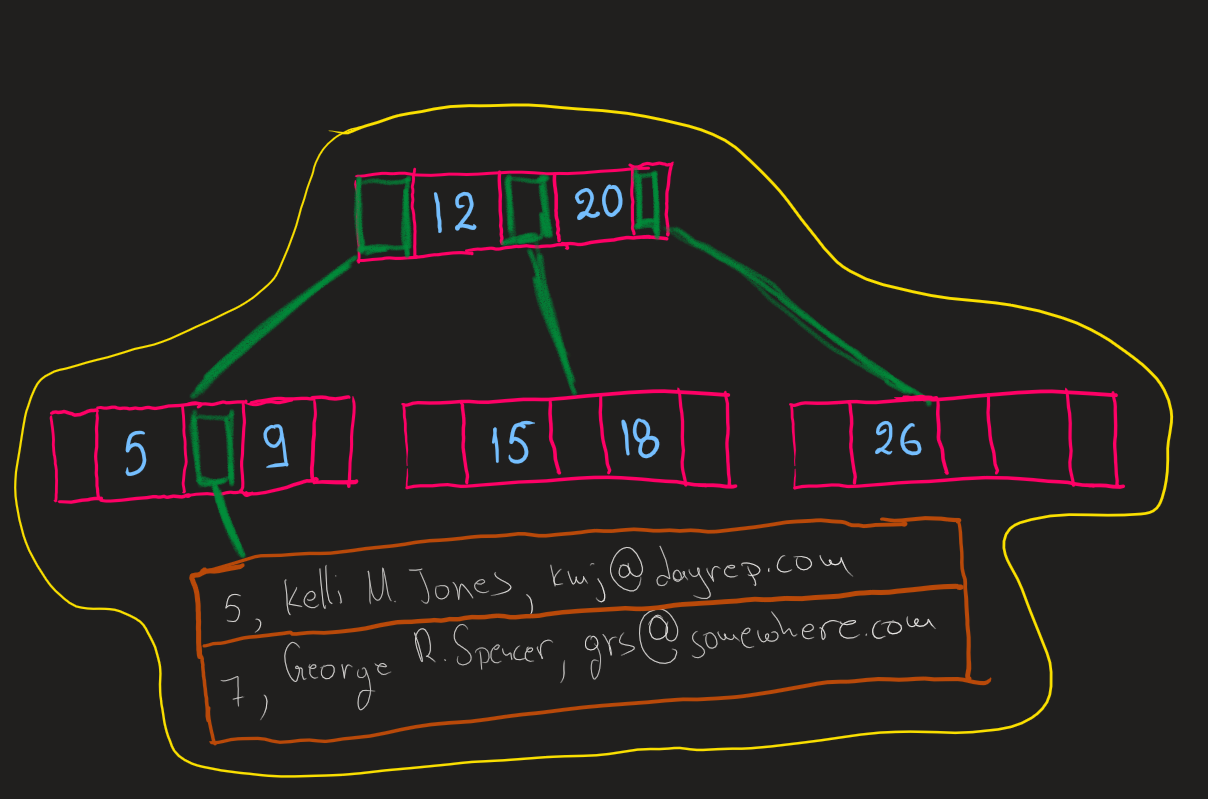
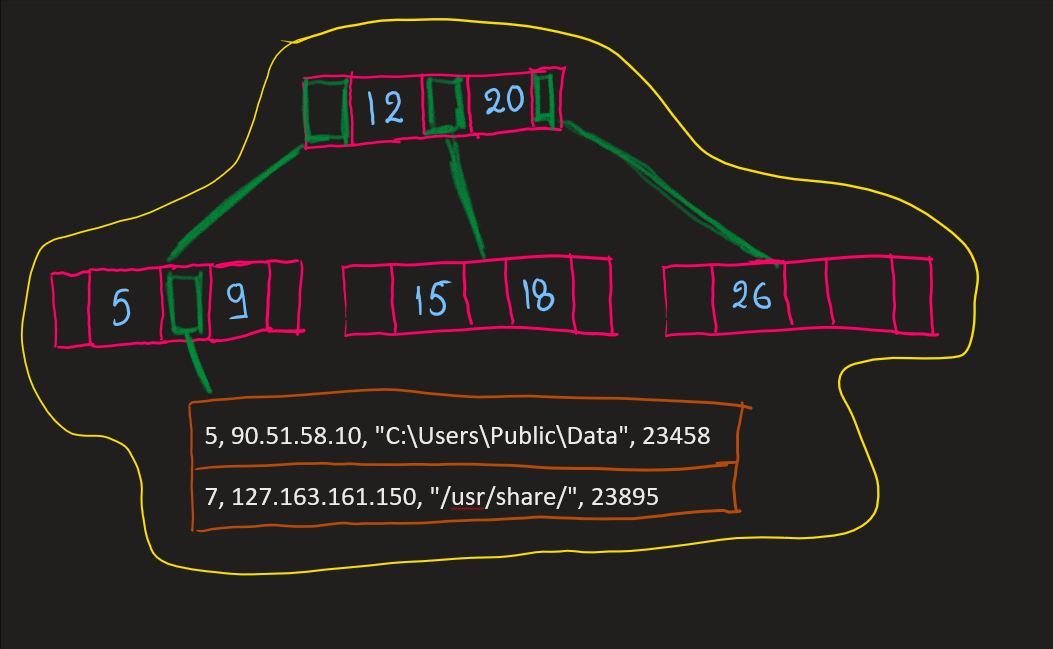
Content update

diff --git a/projects/project3/designing_nodes.md b/projects/project3/designing_nodes.md
@@ -38,7 +38,8 @@ outIndex = findElement(key);
 
 Ok with that out of the way, this project is probably a **good** use-case of
 making the tree a friend of the node, so it can access private members. Yes, you
-can do everything in the OOP way if you want. You won't be penalized either way.
+can do everything in the OOP way if you want. In fact, if you are familiar with
+that mental model, it might help you abstract and delegate your code to make it easier. You won't be penalized either way.
 
 <div class="alert alert-warning">
     Your nodes <b>WILL</b> have to be templated on the key and index as well!
@@ -46,10 +47,17 @@ can do everything in the OOP way if you want. You won't be penalized either way.
 
 ## General Ideas
 B-Trees grow from the bottom up. That means you probably want to keep track of
-each node's parent on top of each node's children. Another property that might
-come up a lot is the height. Recall that a leaf has a height of 0. Maybe you
-want to keep track of it. Maybe you want to use it as a decreasing value in
-recursion, to detect a leaf.
+each node's parent on top of each node's children. The project is also very
+doable without doing that, but instead setting up your recursion / functions a
+bit different. You could for example, return a value that lets the parent know
+that the child needs to be split and a promotion needs to happen. Or you could
+detect that in the child, do the split, then let the parent know that "hey,
+there is a promotion, deal with it". Go with the approach you better understand,
+or combine them!
+
+Another property that might come up a lot is the height. Recall that a leaf has
+a height of 0. Maybe you want to keep track of it, for every node. Maybe you
+want to use it as a decreasing value in recursion, to detect a leaf.
 
 
 ## Design Ideas
@@ -72,8 +80,8 @@ class Node {
 private:
     bool m_IsLeaf;
     std::vector<TKey> m_Keys;
-    std::vector<Node<TKey, TIndex>*> m_Children;
-    std::vector<TIndex> m_Data;
+    std::vector<Node<TKey, TIndex>*> m_Children; // This is populated for internal nodes ONLY
+    std::vector<TIndex> m_Data; // This is populated for leaf nodes ONLY
 };
 ```
 
@@ -81,7 +89,9 @@ private:
 This is a simple extension to the above. In _my_ opinion this only introduces
 more pain, over the previous idea. But remember, it is all about what makes 
 sense to you, so you can implement it! You either have your m_Children vector 
-populated and m_Leaves is empty, or the other way around.
+populated and m_Leaves is empty, or the other way around. You could say that if
+height is 1 it means I am going to the leaves next. Otherwise I am going to the
+next node.
 
 ```c++
 template<typename TKey, typename TIndex>
@@ -102,11 +112,19 @@ private:
 ### Idea 3: Inheritance!
 This is the most "elegant" solution, but you might not feel comfortable with it.
 It is definitely the most OOP solution. LeafNode is a Node, so it gets access to
-all of its protected and public members and that adds Data on top. Furthermore
-we will override the behavior of `IsLeaf` so `m_Children[i]->IsLeaf()` will
-return true or false as expected. This is called polymorphism from your 202
-class. Please note the constructors and destructors. They **MUST** be like that.
-Furthermore, `arguments for LeafNode` can include `arguments for Node`.
+all of its protected and public members and that adds `m_Data` on top.
+
+Next, we will override the behavior of `IsLeaf` so
+`m_Children[i]->IsLeaf()` will return true or false as expected. This is called
+polymorphism from your 202 class. Please note the constructors and destructors.
+Their declarations **MUST** be like that. You can implement them however you
+want though. 
+
+Furthermore, `arguments for LeafNode` can include all or some of
+`arguments for Node`. Meaning that LeafNode can accept some arguments to pass
+onto Node, and also select to hardcode some of the arguments. For example, if
+your Node accepts a height parameter, a LeafNode might want to hardcode that to
+0, instead of accepting it as a parameter.
 
 
 ```c++
@@ -155,7 +173,9 @@ picture.
 Let's say that we have the first node there at the top. An entry would have a
 key of 12, previousBranch would be a pointer to the bottom left node, and next
 branch would be a pointer to the bottom middle node. The next entry would have a
-key of 20 and so on and so forth.
+key of 20 and so on and so forth. There is some duplication there as 12's next
+is 20's previous. So you might be able to get away with having only one of them
+if you do it right.
 
 Again this is just an idea, and might warrant a lot of refinement. For instance
 think of the entry when you do not have a previous or next branch.

diff --git a/projects/project3/b-trees.md b/projects/project3/b-trees.md
@@ -40,7 +40,7 @@ nav_order: 2
 <p>
     In this assignment you will <b>NOT</b> have to worry about the calculation
     of optimal M and L. You will be accepting those parameters as arguments in
-    your tree's constructor and using them.
+    your tree's constructor and using them. <b>You still have to promote and split based on those values</b>.
 </p>
 
 ## The power of a name
@@ -50,12 +50,12 @@ nav_order: 2
 </p>
 <ul>
     <li>Everything red is a node, and specifically an "internal node". In the
-    picture below you have 3 internal nodes.</li>
+    picture below you have 3 internal nodes. 12 is not a node. 12 and 20 together are also not a node.</li>
     <li>Everything
         colored light blue is a key. Notice how a node is <b>NOT</b> a key. A node does
         contain some keys though!</li>
     <li>Everything colored green is a branch. Notice how a node might have some
-    branches, but they are also "outside" the node. That's because they symbolize
+    branches, but notice how branches extend "outside" the node. That's because they symbolize
     a relationship between nodes.</li>
     <li>Everything colored orange is also a node, but this time it is a data
     node or data leaf.</li>
@@ -69,6 +69,14 @@ more. Also in your implementation, each record will be some form of index that
 the database will use. You don't care how it will be used. All you care about,
 is that there should be a <code>Key == Record</code> operator. The classes we
 give you will provide that operator.
+</p>
+
+<p>
+For your assignment the keys (12, 20, 5, 15, etc in the example) will be of type
+<code>TKey</code>. The records (or data) will be of type <code>TIndex</code>. In
+the example <code>TKey</code> is <code>int</code> and <code>TIndex</code> is a
+<code>struct</code> that contains information about the server and path where
+the data is stored. Plus some number (let's say it is the disk sector or something).
 </p>
 
 <img class="d-block my-0 mx-auto" src="{{ "/assets/images/tree-color-coded.png"

diff --git a/projects/project3/out_parameters.md b/projects/project3/out_parameters.md
@@ -14,9 +14,9 @@ nav_order: 6
 # Project 3: {{page.title}}
 
 When you take a parameter by reference, you can treat it like a local, stack
-allocated variable, and the caller sees the changes you make. It is in essence a
-pointer, it just makes the syntax a bit simpler and you don't have to `->` 
-everything.
+allocated variable, and the caller sees the changes you make. It is in essence
+syntactic sugar for a pointer, it just makes the syntax a bit simpler and you
+don't have to `->` everything.
 
 Let's see how we use out parameter to our advantage next. Let's say we are
 implementing <code>BTree::try_find</code>. You will notice that outIndex is a
@@ -44,5 +44,35 @@ bool try_find(const TKey& key, TIndex& outIndex)
 
     // Example 2
     some_return_value = some_other_function(outIndex);
+}
+```
+
+And for a concrete example next. The following program will print 41 followed by
+42 (you can run it if you want to test it).
+
+```c++
+#include <iostream>
+
+bool function_with_reference(int& number) {
+    number++;
+
+    return true;
+}
+
+int main () {
+    int i = 41;
+
+    std::cout << i << '\n';
+
+    bool was_incremented = function_with_reference(i);
+
+    if (was_incremented)
+        std::cout << i;
+    else 
+        std::cout << "Function failed";
+    
+    std::cout << std::endl;
+    
+    return 0;
 }
 ```

diff --git a/projects/project3/introduction.md b/projects/project3/introduction.md
@@ -13,12 +13,17 @@ nav_order: 1
 
 <p>
 In this project you will be implementing a B-Tree as an index for a database. A
-key reason to use a B-Tree is to avoid the performance penalty of storing part
+key reason to use a B-Tree is to reduce the performance penalty of storing part
 of your tree, as well as the actual data for the tree, on disc (or some other
-form of dense, persistent storage). Naturally, having you work with real
-databases or with disks (we are talking hardware here, not just file I/O) is a
-bit too much. <b>To that end we will be faking most of it, with code that will
-be provided. </b>
+form of dense, persistent storage).
+</p>
+<p>
+Working with real databases or with disks (we are talking hardware here, not
+just file I/O) might sound fun to some of you. But it is also a bit too much,
+and outside the scope of this class. <b>To that end we will be faking most of
+it, with code that will be provided</b>. You can use this code to see how your
+implementation will be used. We will also have a summary of the provided code
+later on.
 </p>
 
 <p>

diff --git a/projects/project3/assignment.md b/projects/project3/assignment.md
@@ -14,11 +14,12 @@ nav_order: 3
 
 <p>
 Your assignment is to implement a B-Tree, that will be used by a "database" to
-quickly retrieve data. We will be providing some starter code, but that is
+quickly index data. We will be providing some starter code, but that is
 mainly the template setup. You are free to design your own implementations as
 you see fit, as long as you do not change the provided interface. <b>That means
 you cannot change the function signatures we give you (including the
-constructors).</b>
+constructors).</b> The required functions can call other functions that you
+build though. And you are in control of those other functions.
 </p>
 
 <p>
